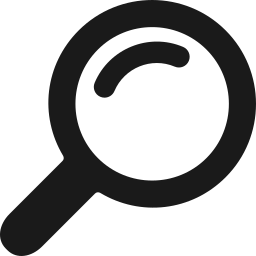
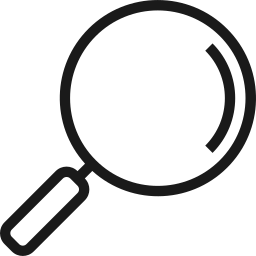
change of photos and add of search UI

diff --git a/NavigatorFrame.py b/NavigatorFrame.py
@@ -1,12 +1,6 @@
 import customtkinter
-from enum import Enum
-from assets_controller import NavigatorAssets
-
-class Frame(Enum):
-    SEARCH = 1
-    URL = 2
-    DOWNLOADING = 3
-    SETTINGS = 4
+from AssetsController import NavigatorAssets
+from Enums import Frame
 
 HOVER_COLOR:tuple = ("gray70", "gray30");
 TEXT_COLOR:tuple = ("gray10", "gray90");
@@ -17,7 +11,8 @@ BUTTON_HEIGHT:int = 55;
 class NavigatorFrame():
 
     def __init__(self, app) -> None:
-
+        # saving the app 
+        self.app = app
         # getting access to all assets
         self.assets = NavigatorAssets()
         # setting the frame
@@ -34,7 +29,7 @@ class NavigatorFrame():
 
         # Navigation Buttons 
         self.search = customtkinter.CTkButton(self.frame, corner_radius=0, height=BUTTON_HEIGHT, border_spacing=10, text="",
-                                              width= 60, fg_color="transparent", text_color=TEXT_COLOR, hover_color=HOVER_COLOR,
+                                              width= 60, fg_color=SELECT_COLOR, text_color=TEXT_COLOR, hover_color=HOVER_COLOR,
                                               image=self.assets.search_icon,command=self.search_button_event)
         self.search.grid(row=2, column=0, sticky="ew")
 
@@ -53,7 +48,8 @@ class NavigatorFrame():
                                               image=self.assets.settings_icon,command=self.settings_button_event)
         self.settings.grid(row=6, column=0, sticky="sew")
 
-
+ 
+    # Methods
     def select_frame(self, frame: Frame) -> None:
         # make all the buttons transparent
         self.search.configure(fg_color="transparent")
@@ -65,12 +61,16 @@ class NavigatorFrame():
         match frame:
             case Frame.SEARCH:
                 self.search.configure(fg_color=SELECT_COLOR)
+                self.app.select_frame(Frame.SEARCH)
             case Frame.URL:
                 self.url.configure(fg_color=SELECT_COLOR)
+                self.app.select_frame(Frame.URL)
             case Frame.DOWNLOADING:
                 self.downloading.configure(fg_color=SELECT_COLOR)
+                self.app.select_frame(Frame.DOWNLOADING)
             case Frame.SETTINGS:
                 self.settings.configure(fg_color=SELECT_COLOR)
+                self.app.select_frame(Frame.SETTINGS)
 
 
     def search_button_event(self) -> None:

diff --git a/main.py b/main.py
@@ -1,7 +1,12 @@
 from os.path import ismount
 import tkinter
 import customtkinter
-from nav_frame import NavigatorFrame
+from NavigatorFrame import NavigatorFrame
+from SearchFrame import SearchFrame
+from UrlFrame import UrlFrame
+from DownloadFrame import DownloadFrame
+from SettingsFrame import SettingsFrame
+from Enums import Frame
  
 customtkinter.set_appearance_mode("System")  # Modes: "System" (standard), "Dark", "Light"
 customtkinter.set_default_color_theme("blue")  # Themes: "blue" (standard), "green", "dark-blue"
@@ -21,8 +26,34 @@ class App(customtkinter.CTk):
         self.grid_columnconfigure(1, weight=1)
         self.grid_columnconfigure((0, 2, 3), weight=0)
         self.grid_rowconfigure((0, 1, 2), weight=1)
+        
+        # frames
+        self.navigator_frame = NavigatorFrame(self)
+        self.search_frame = SearchFrame(self)
+        self.url_frame = UrlFrame(self)
+        self.download_frame = DownloadFrame(self)
+        self.settings_frame = SettingsFrame(self)
 
-        self.nav_frame = NavigatorFrame(self)
+        self.search_frame.frame.grid(row=0, column=1, rowspan= 4, columnspan=3, sticky="nsew")
+
+    # select frame from navigator frame
+    def select_frame(self, frame) -> None:
+        # removing all frames
+        self.search_frame.frame.grid_forget()
+        self.url_frame.frame.grid_forget()
+        self.download_frame.frame.grid_forget()
+        self.settings_frame.frame.grid_forget()
+        # showing the chosen screen
+        match frame:
+            case Frame.SEARCH:
+                self.search_frame.frame.grid(row=0, column=1, rowspan=4, columnspan=3, sticky="nsew")
+            case Frame.URL:
+                self.url_frame.frame.grid(row=0, column=1, rowspan=4, columnspan=3, sticky="nsew")
+            case Frame.DOWNLOADING:
+                self.download_frame.frame.grid(row=0, column=1, rowspan=4, columnspan=3, sticky="nsew")
+            case Frame.SETTINGS:
+                self.settings_frame.frame.grid(row=0, column=1, rowspan=4, columnspan=3, sticky="nsew")
+                
 
 if __name__ == "__main__":
     app = App()

diff --git a/SearchFrame.py b/SearchFrame.py
@@ -1,0 +1,17 @@
+import customtkinter
+
+
+class SearchFrame():
+
+    def __init__(self, app) -> None:
+        # setting the frame
+        self.frame = customtkinter.CTkFrame(app, fg_color="transparent")
+        self.frame.grid_columnconfigure(1,  weight=6)
+        self.frame.grid_columnconfigure((0,2,3), weight=1)
+
+        # search Entry
+        self.search_entry = customtkinter.CTkEntry(self.frame, placeholder_text="Search for a YouTube video")
+        self.search_entry.grid(column=1, row=0, padx=(20,10), pady=20, sticky="nswe") 
+        # search Button 
+        self.search_button = customtkinter.CTkButton(self.frame, text="Search")
+        self.search_button.grid(column=2, row=0, padx=(10,20), pady=20, sticky="nswe")

diff --git a/DownloadFrame.py b/DownloadFrame.py
@@ -1,0 +1,9 @@
+import customtkinter
+
+class DownloadFrame():
+
+    def __init__(self, app) -> None:
+        # setting the frame
+        self.frame = customtkinter.CTkFrame(app, fg_color="transparent")
+        self.label = customtkinter.CTkLabel(self.frame, text="Downloading")
+        self.label.grid(column=0, row=0, sticky="nswe") 

diff --git a/SettingsFrame.py b/SettingsFrame.py
@@ -1,0 +1,9 @@
+import customtkinter
+
+class SettingsFrame():
+
+    def __init__(self, app) -> None:
+        # setting the frame
+        self.frame = customtkinter.CTkFrame(app, fg_color="transparent")
+        self.label = customtkinter.CTkLabel(self.frame, text="Settings")
+        self.label.grid(column=0, row=0, sticky="nswe") 

diff --git a/UrlFrame.py b/UrlFrame.py
@@ -1,0 +1,9 @@
+import customtkinter
+
+class UrlFrame():
+
+    def __init__(self, app) -> None:
+        # setting the frame
+        self.frame = customtkinter.CTkFrame(app, fg_color="transparent")
+        self.label = customtkinter.CTkLabel(self.frame, text="URL")
+        self.label.grid(column=0, row=0, sticky="nswe") 

diff --git a/Enums.py b/Enums.py
@@ -1,0 +1,8 @@
+from enum import Enum
+
+class Frame(Enum):
+    SEARCH = 1
+    URL = 2
+    DOWNLOADING = 3
+    SETTINGS = 4
+
